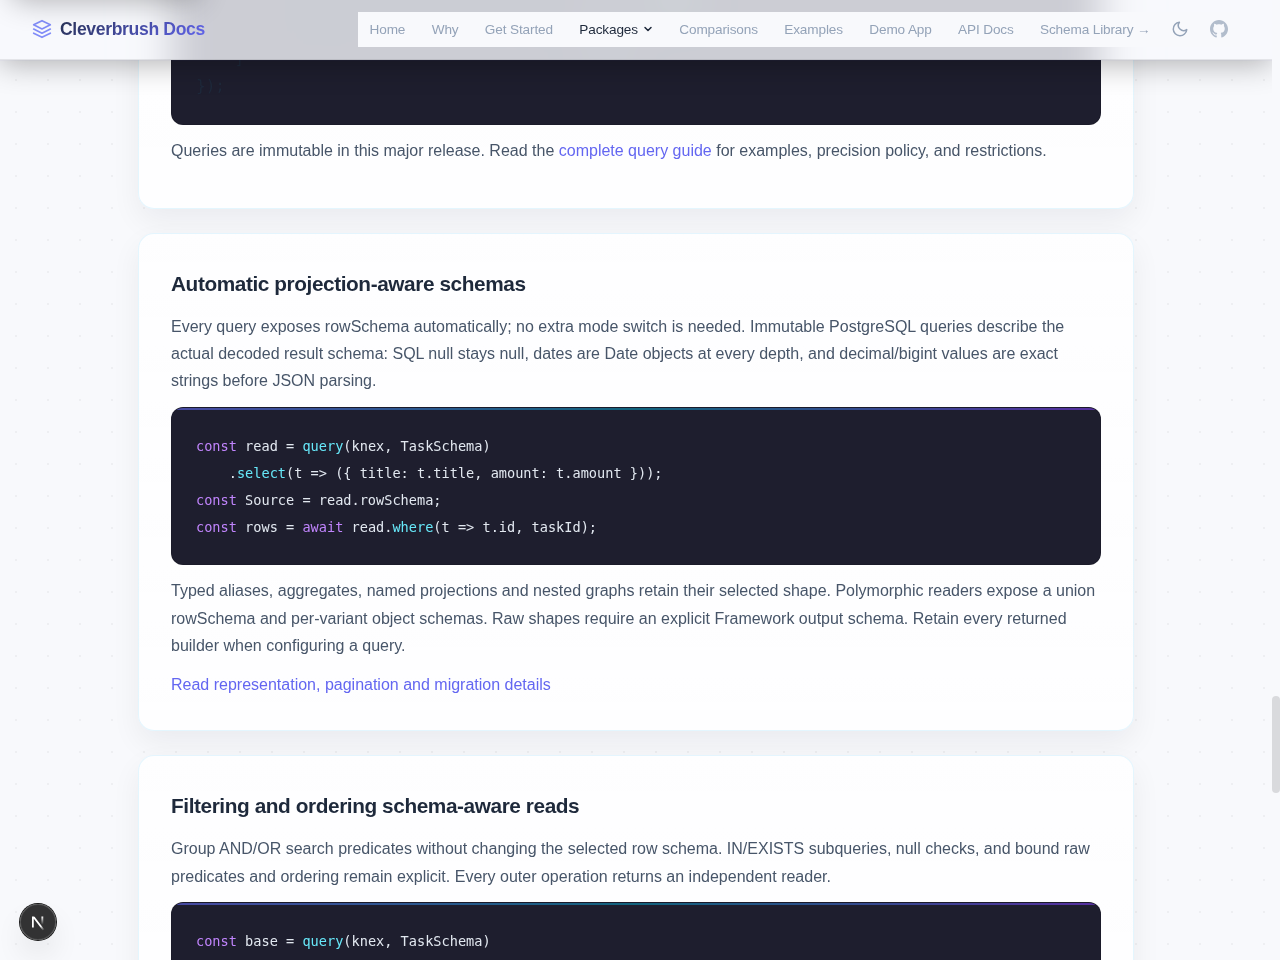
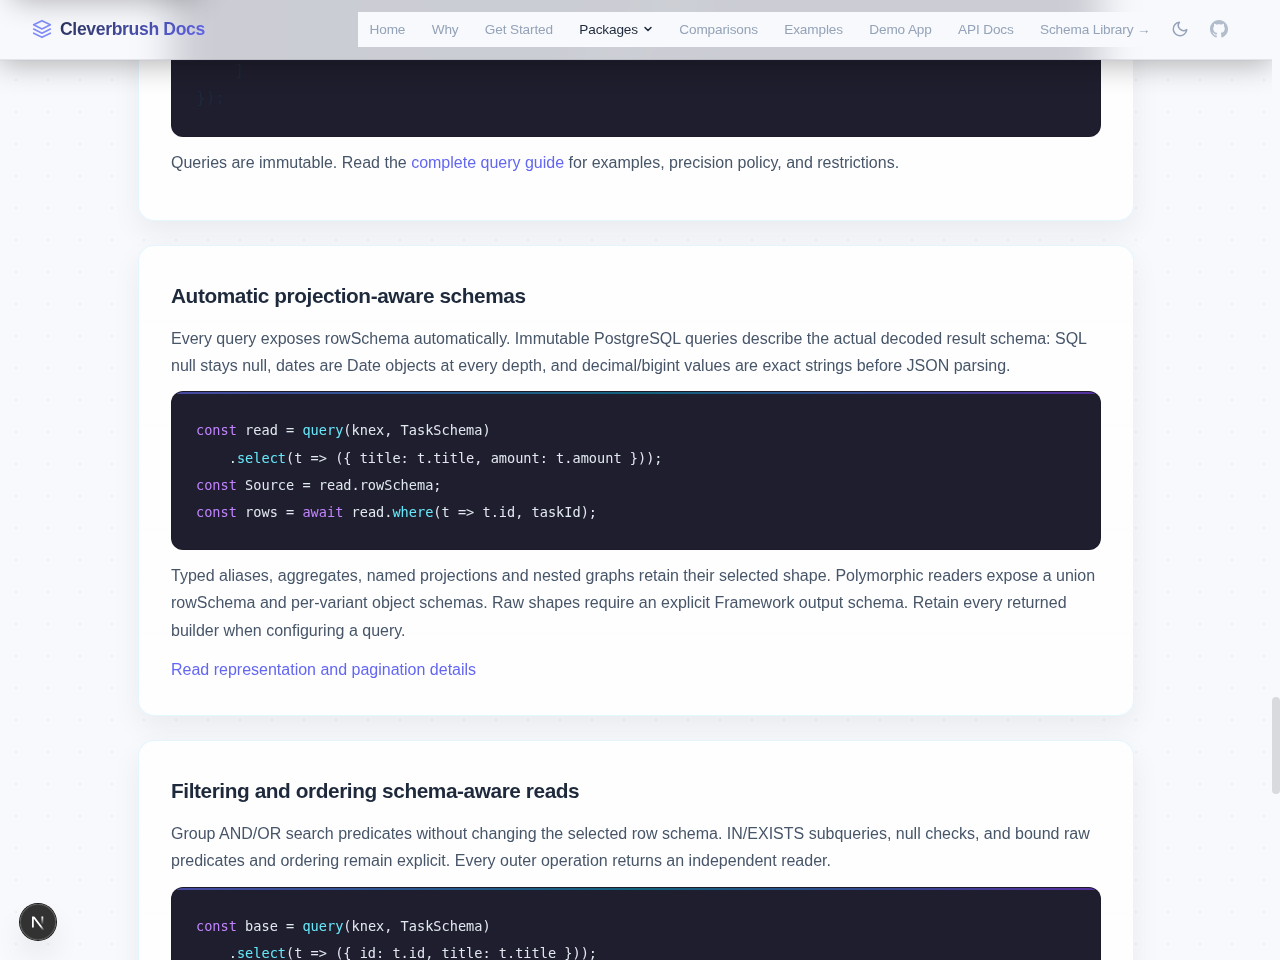
docs: keep Framework guidance application-agnostic and current

Changed region(s): [[0.125, 0.2812, 0.875, 0.7188], [0.125, 0.8125, 0.875, 1.0], [0.125, 0.125, 0.875, 0.1875]]

diff --git a/libs/knex-schema/src/QuerySource.ts b/libs/knex-schema/src/QuerySource.ts
@@ -237,7 +237,7 @@ export class QuerySource<
     }
 
     /**
-     * Append a legacy SQL COUNT selection without executing the query.
+     * Append a internal SQL COUNT selection without executing the query.
      * The driver controls the result shape/value type. Prefer countValue() for a
      * checked scalar number, or aggregate.count() in a typed object projection.
      */
@@ -246,16 +246,16 @@ export class QuerySource<
     }
 
     /**
-     * Append a legacy COUNT(DISTINCT column) selection.
+     * Append a internal COUNT(DISTINCT column) selection.
      * Prefer countDistinctValue() for a checked scalar or aggregate.countDistinct()
-     * for an inferred grouped result; this legacy method retains the builder type.
+     * for an inferred grouped result; this planner method retains the builder type.
      */
     countDistinct(column?: ColumnRef<TLocalSchema> | Knex.Raw): this {
         return (countDistinctImpl as any)(this, column);
     }
 
     /**
-     * Append a legacy MIN selection without changing the result type.
+     * Append a internal MIN selection without changing the result type.
      * Use minValue() for a scalar with explicit decoding, or aggregate.min() in a
      * typed projection. SQL returns null for an empty/all-null input.
      */
@@ -264,7 +264,7 @@ export class QuerySource<
     }
 
     /**
-     * Append a legacy MAX selection without changing the result type.
+     * Append a internal MAX selection without changing the result type.
      * Use maxValue() for a scalar with explicit decoding, or aggregate.max() in a
      * typed projection. SQL returns null for an empty/all-null input.
      */
@@ -273,7 +273,7 @@ export class QuerySource<
     }
 
     /**
-     * Append a legacy SUM selection, leaving numeric conversion to the driver.
+     * Append a internal SUM selection, leaving numeric conversion to the driver.
      * Prefer sumValue() or aggregate.sum() to preserve exact numeric text by default.
      */
     sum(column: ColumnRef<TLocalSchema> | Knex.Raw): this {
@@ -281,7 +281,7 @@ export class QuerySource<
     }
 
     /**
-     * Append a legacy AVG selection, leaving numeric conversion to the driver.
+     * Append a internal AVG selection, leaving numeric conversion to the driver.
      * Prefer avgValue() or aggregate.avg() for a typed, precision-preserving result.
      */
     avg(column: ColumnRef<TLocalSchema> | Knex.Raw): this {
@@ -874,7 +874,7 @@ export class QuerySource<
     /**
      * Read a cursor page without running a total-count query.
      * The orderBy form clones the source and preserves exact composite sort values;
-     * its non-null sort must contain a declared unique key. The legacy column form
+     * its non-null sort must contain a declared unique key. The single-column form
      * mutates this builder and defaults to id descending. Reapply access filters on
      * every request: cursors are positions, not authorization or snapshots.
      * @returns Mapped data, hasMore, and a nextCursor that is null on the last page.
@@ -886,7 +886,7 @@ export class QuerySource<
     /**
      * Read a cursor page without running a total-count query.
      * The orderBy form clones the source and preserves exact composite sort values;
-     * its non-null sort must contain a declared unique key. The legacy column form
+     * its non-null sort must contain a declared unique key. The single-column form
      * mutates this builder and defaults to id descending. Reapply access filters on
      * every request: cursors are positions, not authorization or snapshots.
      * @returns Mapped data, hasMore, and a nextCursor that is null on the last page.
@@ -897,7 +897,7 @@ export class QuerySource<
         cursor?: any;
         /** Maximum parent rows to return; one extra row determines hasMore. */
         limit: number;
-        /** Unique sort property; defaults to id in the legacy API. */
+        /** Unique sort property; defaults to id for single-column paging. */
         column?: ColumnRef<TLocalSchema>;
         /** Sort/continuation direction; defaults to descending. */
         direction?: 'asc' | 'desc';
@@ -905,7 +905,7 @@ export class QuerySource<
     /**
      * Read a cursor page without running a total-count query.
      * The orderBy form clones the source and preserves exact composite sort values;
-     * its non-null sort must contain a declared unique key. The legacy column form
+     * its non-null sort must contain a declared unique key. The single-column form
      * mutates this builder and defaults to id descending. Reapply access filters on
      * every request: cursors are positions, not authorization or snapshots.
      * @returns Mapped data, hasMore, and a nextCursor that is null on the last page.

diff --git a/libs/knex-schema/src/extension.ts b/libs/knex-schema/src/extension.ts
@@ -943,72 +943,8 @@ export const ddlExtension = defineExtension({
             return this.withExtension('beforeDelete', [...existing, fn]);
         }
 
-        /**
-         * Declare polymorphic variants for this schema.
-         *
-         * Turns a base schema into a **polymorphic schema** where a discriminator
-         * column determines which variant each row belongs to. Variants can store
-         * their extra fields either in a separate table (CTI — Class Table
-         * Inheritance) or as nullable columns on the base table (STI — Single
-         * Table Inheritance).
-         *
-         * The return type carries a phantom brand
-         * (`[POLYMORPHIC_TYPE_BRAND]`) so that `query(db, schema)` automatically
-         * infers the full discriminated-union result type.
-         *
-         * @param config.discriminator - Property key (or accessor) of the
-         *   discriminator column on the base table (e.g. `'type'` or `t => t.type`).
-         * @param config.variants - Map from discriminator value to
-         *   `{ schema, storage, foreignKey?, allowOrphan?, enforceCheck? }`.
-         *   - `storage: 'cti'` — variant fields are in a separate table;
-         *     `foreignKey` (the FK column on the variant table) is required.
-         *   - `storage: 'sti'` — variant fields are nullable columns on the base table.
-         *
-         * @example
-         * ```ts
-         * const FileBase = object({ id: number().primaryKey(), name: string(), type: string() })
-         *   .hasTableName('files');
-         *
-         * const ImageExtras = object({ width: number(), height: number(), format: string() })
-         *   .hasTableName('image_file');
-         *
-         * const DocumentExtras = object({ size: number(), issueDate: date() })
-         *   .hasTableName('document_file');
-         *
-         * const ImageExtras = object({
-         *   fileId: number().hasColumnName('file_id'),
-         *   type:   string('image'),
-         *   width: number(), height: number(), format: string()
-         * }).hasTableName('image_file');
-         *
-         * const DocumentExtras = object({
-         *   fileId: number().hasColumnName('file_id'),
-         *   type:   string('document'),
-         *   size: number(), issueDate: date()
-         * }).hasTableName('document_file');
-         *
-         * const FileSchema = FileBase.withVariants({
-         *   discriminator: t => t.type,
-         *   variants: {
-         *     image:    { schema: ImageExtras,    storage: 'cti', foreignKey: t => t.fileId },
-         *     document: { schema: DocumentExtras, storage: 'cti', foreignKey: t => t.fileId },
-         *   },
-         * });
-         *
-         * // query(db, FileSchema) returns:
-         * // Array<
-         * //   | { id: number; name: string; type: 'image';    width: number; height: number; format: string }
-         * //   | { id: number; name: string; type: 'document'; size: number; issueDate: Date }
-         * // >
-         * ```
-         */
-        // NOTE: the public `.withVariants()` schema-level method has been
-        // removed. Variants are now declared on the {@link Entity} chain via
-        // `defineEntity(...).discriminator(...).ctiVariant(...).stiVariant(...)`.
-        // The internal worker {@link applyVariantsToSchema} (below this
-        // `defineExtension` block) is invoked by the Entity layer and stores
-        // the same `'variants'` / `'polymorphicVariants'` extensions that
-        // `QuerySource` reads at runtime.
+        // Entity declarations use applyVariantsToSchema to store the variant
+        // metadata consumed by polymorphic queries.
     }
 });
 

diff --git a/websites/docs/app/knex-schema/page.tsx b/websites/docs/app/knex-schema/page.tsx
@@ -374,7 +374,7 @@ const average = await query(knex, TaskSchema).avgValue(t => t.estimate, {
                         }}
                     />
                     <p>
-                        Queries are immutable in this major release. Read the{' '}
+                        Queries are immutable. Read the{' '}
                         <a href="https://github.com/cleverbrush/framework/blob/development/libs/knex-schema/README.md#composable-read-queries">
                             complete query guide
                         </a>{' '}
@@ -385,12 +385,11 @@ const average = await query(knex, TaskSchema).avgValue(t => t.estimate, {
                 <div className="card" id="row-schemas">
                     <h2>Automatic projection-aware schemas</h2>
                     <p>
-                        Every query exposes rowSchema automatically; no extra
-                        mode switch is needed. Immutable PostgreSQL queries
-                        describe the actual decoded result schema: SQL null
-                        stays null, dates are Date objects at every depth, and
-                        decimal/bigint values are exact strings before JSON
-                        parsing.
+                        Every query exposes rowSchema automatically. Immutable
+                        PostgreSQL queries describe the actual decoded result
+                        schema: SQL null stays null, dates are Date objects at
+                        every depth, and decimal/bigint values are exact strings
+                        before JSON parsing.
                     </p>
                     <pre>
                         <code
@@ -410,7 +409,7 @@ const rows = await read.where(t => t.id, taskId);`)
                         Retain every returned builder when configuring a query.
                     </p>
                     <a href="https://github.com/cleverbrush/framework/blob/development/libs/knex-schema/README.md#projection-aware-reads">
-                        Read representation, pagination and migration details
+                        Read representation and pagination details
                     </a>
                 </div>
 

diff --git a/websites/docs/app/client/sections/cacheTags.tsx b/websites/docs/app/client/sections/cacheTags.tsx
@@ -130,7 +130,7 @@ externalCacheTags({ invalidateTag: revalidateTag });
             </div>
 
             <div className="card">
-                <h2>Versioned keys: breaking migration</h2>
+                <h2>Deterministic cache keys</h2>
                 <p>
                     Server and client helpers, response caches and external
                     invalidation share the deterministic <code>ct2:</code>{' '}
@@ -141,11 +141,10 @@ externalCacheTags({ invalidateTag: revalidateTag });
                     values throw <code>TypeError</code>.
                 </p>
                 <p>
-                    Upgrade external cache writers and invalidators together and
-                    flush or expire old entries. There is no legacy fallback.
-                    Base invalidation labels remain literal names; TTLs are
-                    unchanged. External invalidators send both base labels and
-                    computed keys by default, including property-free tags.
+                    External cache writers and invalidators must use the same
+                    key format. Base invalidation labels are literal names.
+                    External invalidators send both base labels and computed
+                    keys by default, including property-free tags.
                 </p>
                 <p>
                     Response shape and auth/tenant isolation remain

diff --git a/websites/schema/app/docs/sections/validation.tsx b/websites/schema/app/docs/sections/validation.tsx
@@ -19,9 +19,7 @@ export default function ValidationSection() {
                 only when your schema includes async validators or
                 preprocessors. For object schemas, the result also includes a{' '}
                 <code>getErrorsFor()</code> method for per-property error
-                inspection — the flat <code>errors</code> array is{' '}
-                <strong>deprecated</strong> on object schema results and will be
-                removed in a future major version.
+                inspection.
             </p>
             <pre>
                 <code
@@ -57,8 +55,7 @@ if (result.valid) {
                     This is the recommended way to inspect validation errors on
                     object schemas
                 </strong>{' '}
-                and replaces the deprecated <code>errors</code> array on object
-                schema validation results. It returns an object with{' '}
+                using property selectors. It returns an object with{' '}
                 <code>isValid</code> (boolean), <code>errors</code> (array of
                 error strings), and <code>seenValue</code> (the value that was
                 validated).

diff --git a/websites/schema/app/docs/sections/api-reference.tsx b/websites/schema/app/docs/sections/api-reference.tsx
@@ -264,11 +264,9 @@ export default function ApiReferenceSection() {
                                 <td>
                                     Result of <code>.validate()</code>. Contains{' '}
                                     <code>valid</code>, <code>errors</code>, and{' '}
-                                    <code>object</code>. For object schemas,
-                                    also includes <code>getErrorsFor()</code> (
-                                    <code>errors</code> is{' '}
-                                    <strong>deprecated</strong> on object schema
-                                    results).
+                                    <code>object</code>. For object schemas, use{' '}
+                                    <code>getErrorsFor()</code> for per-property
+                                    errors.
                                 </td>
                             </tr>
                             <tr>

diff --git a/websites/schema/app/playground/schemaDeclarations.ts b/websites/schema/app/playground/schemaDeclarations.ts
@@ -2495,7 +2495,7 @@ export type ObjectSchemaValidationResult<T, TRootSchema extends ObjectSchemaBuil
      * This is the **recommended** way to inspect validation errors — it provides type-safe,
      * per-property error details including \`isValid\`, \`errors\`, and \`seenValue\`.
      *
-     * Prefer this over the deprecated \`errors\` array.
+     * Inspect root or property-specific validation errors with a selector.
      *
      * @param selector a callback function to select property from the schema.
      */
@@ -2565,7 +2565,7 @@ export type ObjectSchemaValidationResult<T, TRootSchema extends ObjectSchemaBuil
  * });
  *
  * // result.valid === false
- * // result.errors is deprecated — use result.getErrorsFor() instead
+ * // Inspect property errors using result.getErrorsFor().
  * // result.getErrorsFor((p) => p.age).errors // ["is expected to have property 'age'"]
  * \`\`\`
  *

diff --git a/libs/schema/src/builders/ObjectSchemaBuilder.ts b/libs/schema/src/builders/ObjectSchemaBuilder.ts
@@ -224,7 +224,7 @@ export type ObjectSchemaValidationResult<
      * This is the **recommended** way to inspect validation errors — it provides type-safe,
      * per-property error details including `isValid`, `errors`, and `seenValue`.
      *
-     * Prefer this over the deprecated `errors` array.
+     * Inspect root or property-specific validation errors with a selector.
      *
      * @param selector a callback function to select property from the schema.
      */
@@ -324,7 +324,7 @@ export type ObjectSchemaValidationResult<
  * });
  *
  * // result.valid === false
- * // result.errors is deprecated — use result.getErrorsFor() instead
+ * // Inspect property errors using result.getErrorsFor().
  * // result.getErrorsFor((p) => p.age).errors // ["is expected to have property 'age'"]
  * ```
  *

diff --git a/websites/schema/app/docs/sections/schema-modifiers.tsx b/websites/schema/app/docs/sections/schema-modifiers.tsx
@@ -140,8 +140,8 @@ array(text).parse(['ok', 42]); // ['ok', undefined] — no entries dropped`}</co
                     runs only when validation fails.
                 </p>
                 <p>
-                    Legacy optional schemas accept <code>null</code> at runtime
-                    even when their inferred type omits it. A fallback does not
+                    Optional schemas accept <code>null</code> at runtime even
+                    when their inferred type omits it. A fallback does not
                     replace a value that passed validation, so normalize null
                     explicitly when your application requires undefined:
                 </p>

diff --git a/websites/docs/app/react-form/page.tsx b/websites/docs/app/react-form/page.tsx
@@ -307,8 +307,8 @@ function App() {
                         <code>createFormSystem</code>. Its <code>Field</code>{' '}
                         checks the selected value, variant and custom props.
                         Extend it by spreading <code>system.renderers</code>.
-                        Its optional <code>Provider</code> also configures
-                        legacy fields.
+                        Its optional <code>Provider</code> supplies renderers to
+                        descendant fields.
                     </p>
                     <pre>
                         <code

diff --git a/libs/knex-schema/src/expressions.ts b/libs/knex-schema/src/expressions.ts
@@ -46,7 +46,7 @@ export interface AliasedColumn<T, S = any, Nullable extends boolean = boolean> {
      * Type-only marker carrying column nullability and value type; not a runtime row value.
      */
     readonly __value?: T;
-    /** Type-only original schema used by opt-in projection metadata. */
+    /** Type-only source schema used by projection metadata. */
     readonly __readSource?: S;
     /** Type-only join nullability, independent of the stored column schema. */
     readonly __leftJoined?: Nullable;

diff --git a/libs/knex-schema/src/types.ts b/libs/knex-schema/src/types.ts
@@ -542,7 +542,7 @@ export interface RelationSpec {
     name: string;
     schema: any;
     foreignKey?: any;
-    /** Explicit schema property names retained for opt-in read correlation. */
+    /** Explicit schema property names used for read correlation. */
     localKey?: string;
     remoteKey?: string;
     /** Nullable belongs-to relations do not filter out their parent rows. */
